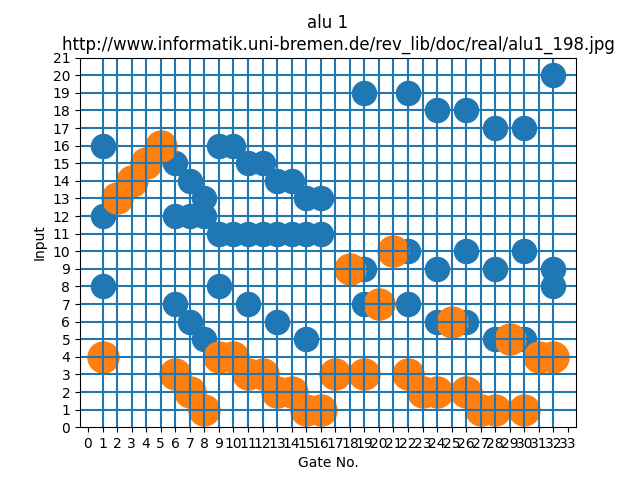
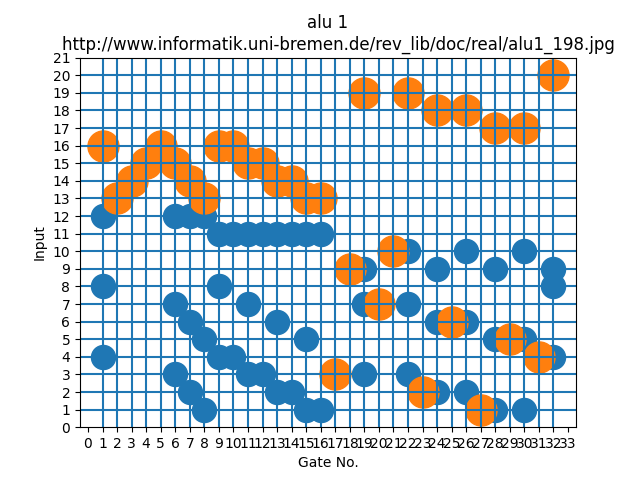
fixed parse_raw_data.py

diff --git a/RESULTS/REVLIB/RAW_CIRCUIT_DATA/parse_raw_data.py b/RESULTS/REVLIB/RAW_CIRCUIT_DATA/parse_raw_data.py
@@ -1,5 +1,4 @@
 import json
-from typing import List, Dict
 
 with open('./raw_data.json', 'r') as f:
     data = json.load(f)
@@ -21,8 +20,8 @@ def parse_gates(array_of_gates: list[str], no_of_lines: int, var_index_mapping: 
     for index, gate in enumerate(array_of_gates):
         target_and_controls = gate.split(' ')
         target_array, controls_array = ["0"] * no_of_lines, ["0"] * no_of_lines
-        tar = var_index_mapping.get(target_and_controls[1], -1)
-        cont = [var_index_mapping.get(x, -1) for x in target_and_controls[2:]]
+        tar = var_index_mapping.get(target_and_controls[-1], -1)
+        cont = [var_index_mapping.get(x, -1) for x in target_and_controls[1:-1]]
         if tar == -1:
             return None
         target_array[tar] = "1"

diff --git a/main.py b/main.py
@@ -8,10 +8,8 @@ import time
 if __name__ == "__main__":
     in_loc, out_loc = "./RESULTS/generated_data.json", "./RESULTS/MINIMAL_SETS/mini_set.json"
     time_start_old = time.time()
-    # cs.runner()
+    cs.runner()
     time_end_old = time.time()
-
-    print("hello world")
 
     time_start_new = time.time()
     exp.experimental_runner()
